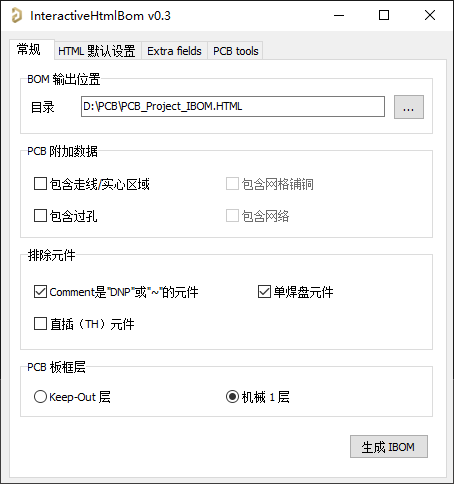
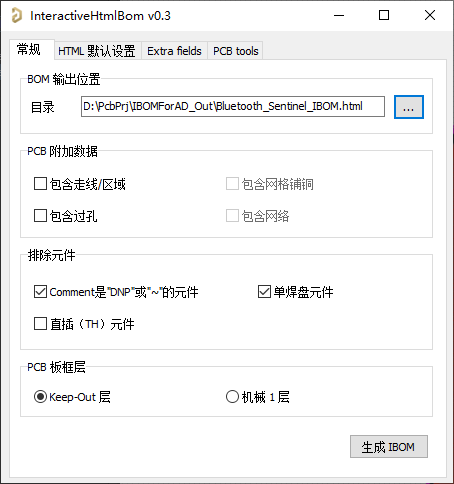
修改 PCB 附加数据选项内的文本描述

diff --git a/dist/mainWin.js b/dist/mainWin.js
@@ -8,7 +8,7 @@ function setChineseCaptions(non) {
     GroupBox1.Caption = "BOM \u8F93\u51FA\u4F4D\u7F6E";
     StaticText1.Caption = "\u76EE\u5F55";
     GroupBox3.Caption = "PCB \u9644\u52A0\u6570\u636E";
-    CbIncludeTracksAndSolidPolygons.Caption = "\u5305\u542B\u8D70\u7EBF/\u5B9E\u5FC3\u533A\u57DF";
+    CbIncludeTracksAndSolidPolygons.Caption = "\u5305\u542B\u8D70\u7EBF/\u533A\u57DF";
     CbIncludeVias.Caption = "\u5305\u542B\u8FC7\u5B54";
     CbIncludeHatched.Caption = "\u5305\u542B\u7F51\u683C\u94FA\u94DC";
     CbIncludeNets.Caption = "\u5305\u542B\u7F51\u7EDC";
